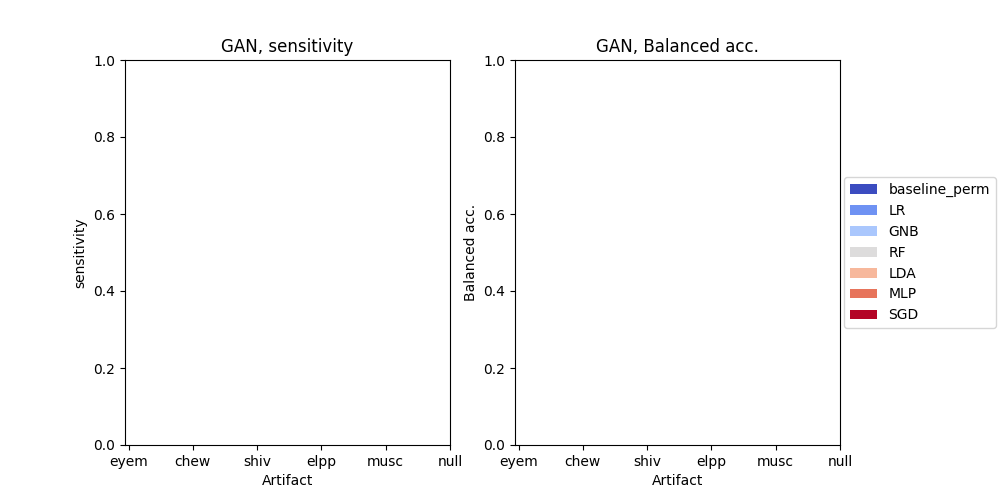
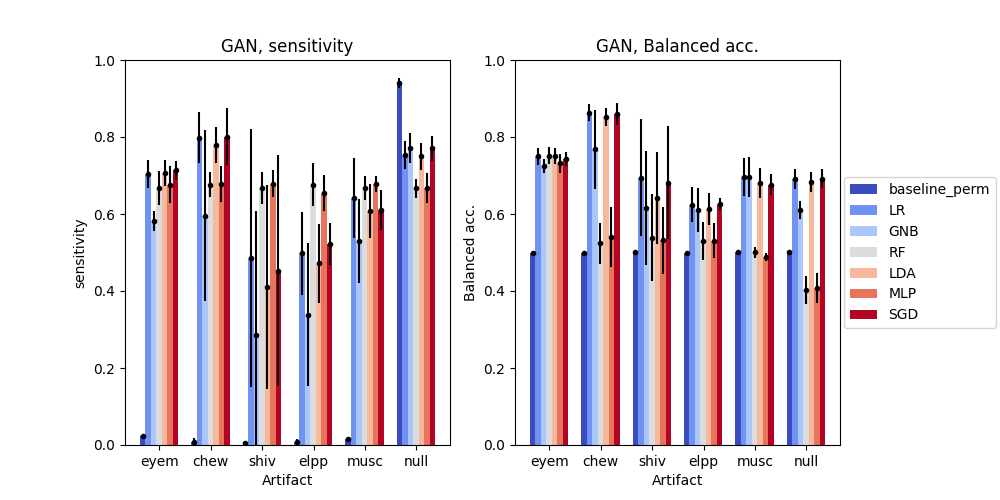
more plots etc

Changed region(s): [[0.093, 0.15, 0.465, 0.93], [0.496, 0.21, 0.868, 0.93]]

diff --git a/evaluation/ensemble_results.py b/evaluation/ensemble_results.py
@@ -170,6 +170,77 @@ class getResultsEnsemble:
 
         return y_pred_dict
 
+
+    def plotAugTechniqueAverage(self, bestDict, artifacts=None, exclude_baseline=True):
+
+        if artifacts == None:
+            artifacts = self.artifacts
+
+        Aug_comparisonDict = defaultdict(dict)
+
+        for a, artifact in enumerate(artifacts):
+            techniques = np.unique(bestDict['technique'][artifact])
+            for i, technique in enumerate(techniques):
+                if exclude_baseline:
+                    pos_tech1 = np.where(bestDict['technique'][artifact] == technique)[0]
+                    pos_tech2 = np.where(bestDict['models'][artifact] != 'baseline_perm')[0]
+                    pos_tech = np.intersect1d(pos_tech1, pos_tech2)
+                else:
+                    pos_tech = np.where(bestDict['technique'][artifact] == technique)
+
+                scores_tech = bestDict['scores'][artifact][pos_tech]
+                Aug_comparisonDict[technique] = scores_tech
+
+                number = len(techniques)
+                cmap = plt.get_cmap('coolwarm')
+                colorlist = [cmap(i) for i in np.linspace(0, 1, number)]
+
+                w = 0.15
+                w = 0.75 / len(techniques)
+                if len(techniques) == 1:
+                    X_axis = np.arange(len(self.models))
+                else:
+                    X_axis = a - 0.3
+
+                plt.bar(x=X_axis + w * i,
+                        height=np.mean(Aug_comparisonDict[technique]),
+                        width=w,
+                        color=colorlist[i],
+                        label=technique)
+
+                plt.errorbar(x=X_axis + w * i, y=np.mean(Aug_comparisonDict[technique]),
+                             yerr=np.std(Aug_comparisonDict[technique]),
+                             fmt='.', color='k')
+
+            plt.xticks(np.arange(len(artifacts)), artifacts, rotation=0)
+            plt.ylim(0, 1)
+
+            plt.title(f"Mean across Aug. methods, Baseline exluded: {exclude_baseline}")
+
+            plt.xlabel("Artifacts")
+            plt.ylabel(measure)
+
+            if a == 0:
+                plt.legend(loc='center right', bbox_to_anchor=(1.36, 0.5))
+                plt.subplots_adjust(bottom=0.2, right=0.775)
+
+        img_path = f"{(self.slash).join([self.pickle_path, measure])}{self.slash}augTechniquesComparison.png"
+        os.makedirs((self.slash).join(img_path.split(self.slash)[:-1]), exist_ok=True)
+        plt.savefig(img_path)
+        plt.show()
+
+        for i, technique in enumerate(techniques):
+            scores = Aug_comparisonDict[technique]
+            plt.plot(np.arange(len(scores)), scores, label=technique, color=colorlist[i])
+        plt.ylim(0, 1)
+        plt.xlabel("Number of models evaluated")
+        plt.ylabel(measure)
+        plt.legend()
+        plt.show()
+
+
+
+
     def printNBestModels(self, bestDict, N_best=20, exclude_baseline=False, exclude_zero_aug=False):
 
         for artifact in self.artifacts:
@@ -289,6 +360,8 @@ if __name__ == '__main__':
         bestDict = LoadNumpyPickles(pickle_path=bestDictPicklepath, file_name=loadedBestDictName, windowsOS=windowsOS)[()]
 
     ensembleExp.printNBestModels(bestDict=bestDict, N_best=20, exclude_baseline=True)
+
+    ensembleExp.plotAugTechniqueAverage(bestDict=bestDict, exclude_baseline=True)
 
     y_pred_dict = ensembleExp.getPredictionsEnsemble(best_pred_dict=bestDict, experiments=experiments, N_best=20, artifacts=['eyem'])
 

diff --git a/evaluation/augmentation_results.py b/evaluation/augmentation_results.py
@@ -43,7 +43,7 @@ if __name__ == '__main__':
                                         save_img=save_img)"""
 
         augExp.plotResultsImprovementExp(experiment_name=experiment_name,
-                                         smote_ratio=smote_ratio,
+                                         smote_ratio=smote + 1,
                                          y_true_path=y_true_path,
                                          aug_technique=aug_technique,
                                          save_img=True)
